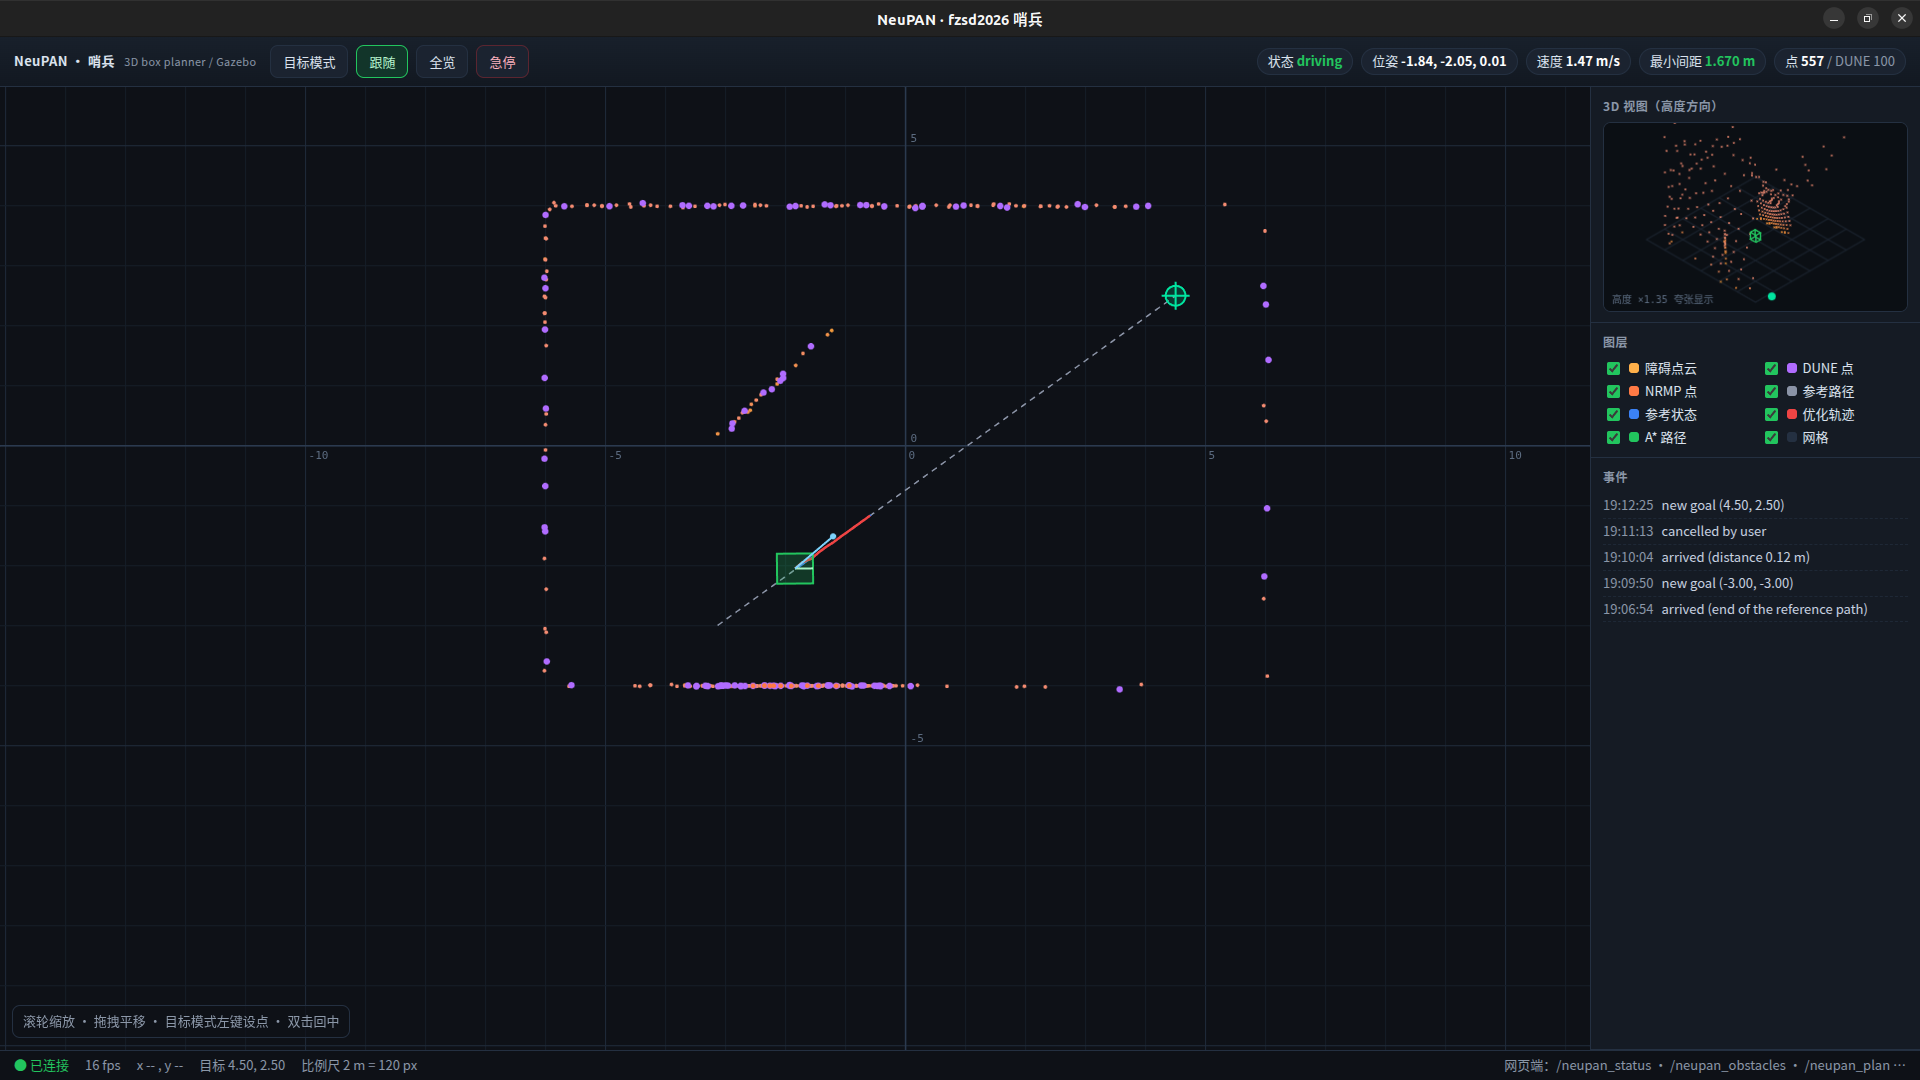
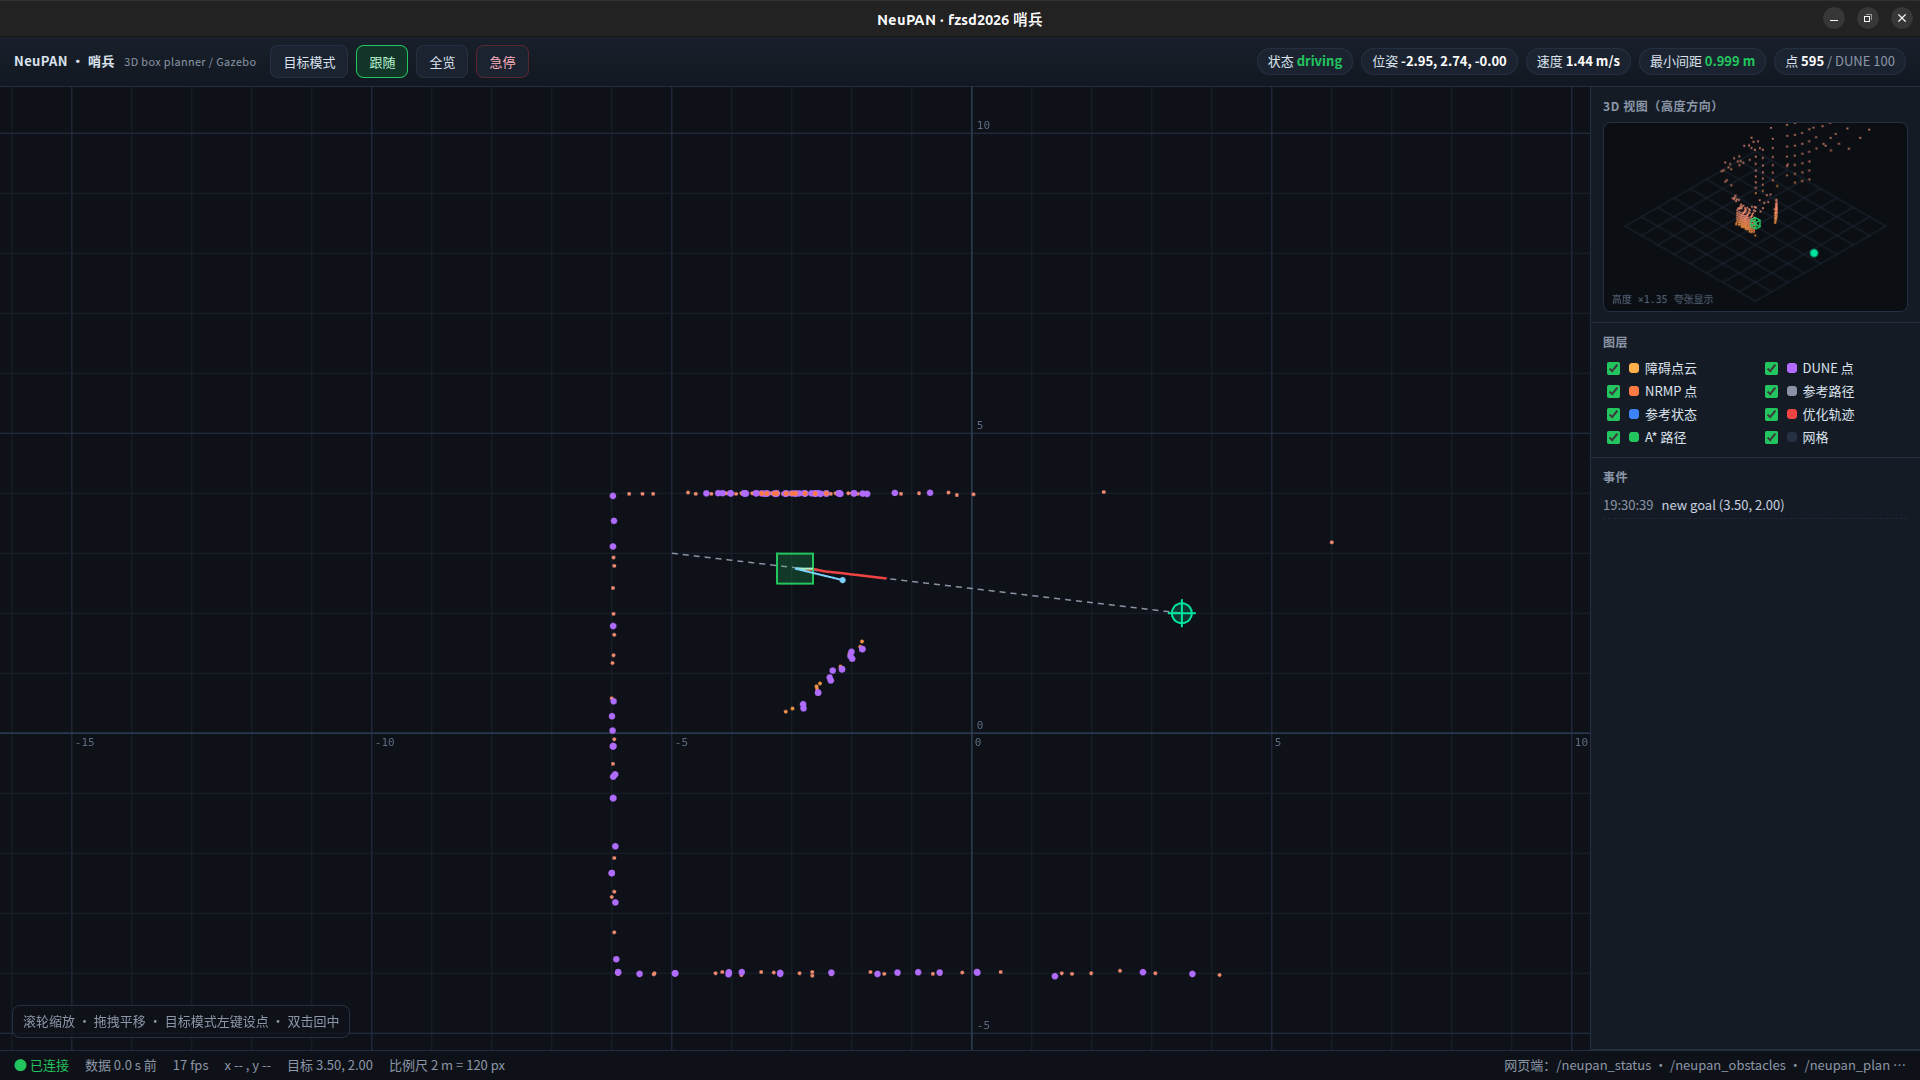
fix(fzsd2026): SSE watchdog + data-age indicator in the web UI
A long-lived EventSource can silently stop delivering (bridge/web restart, tab in the
background); the page now reconnects after 4 s without a frame and shows how old the
last frame is. Refreshed the README screenshot.

diff --git a/example/fzsd2026/web/static/index.html b/example/fzsd2026/web/static/index.html
@@ -143,6 +143,7 @@
 
 <footer>
   <span id="link" class="bad">● 未连接</span>
+  <span id="age">数据 --</span>
   <span id="fps">-- fps</span>
   <span id="cursor">x -- , y --</span>
   <span id="goal">目标 --</span>
@@ -449,12 +450,44 @@
   }
 
   // ------------------------------------------------------------------ SSE
-  const es = new EventSource('/api/stream');
-  es.onopen = () => { $('link').className = 'good'; $('link').textContent = '● 已连接'; };
-  es.onerror = () => { $('link').className = 'bad'; $('link').textContent = '● 断开，重连中'; };
-  es.onmessage = (ev) => {
-    try { applyData(JSON.parse(ev.data)); } catch (e) { /* ignore malformed frame */ }
-  };
+  // Browsers can silently drop a long-lived SSE stream (server restart, tab in the
+  // background). A watchdog reconnects when no frame arrived for a few seconds.
+  const WATCHDOG_MS = 4000;
+  let es = null;
+  let lastMsg = 0;
+  let reconnecting = false;
+
+  function connect() {
+    if (es) { try { es.close(); } catch (e) { /* ignore */ } }
+    es = new EventSource('/api/stream');
+    es.onopen = () => {
+      reconnecting = false;
+      $('link').className = 'good';
+      $('link').textContent = '● 已连接';
+    };
+    es.onerror = () => {
+      $('link').className = 'bad';
+      $('link').textContent = '● 断开，重连中';
+      if (!reconnecting) { reconnecting = true; setTimeout(connect, 1500); }
+    };
+    es.onmessage = (ev) => {
+      lastMsg = Date.now();
+      try { applyData(JSON.parse(ev.data)); } catch (e) { /* ignore malformed frame */ }
+    };
+  }
+  connect();
+  setInterval(() => {
+    if (!lastMsg) return;
+    const age = (Date.now() - lastMsg) / 1000;
+    const el = $('age');
+    if (el) el.textContent = `数据 ${age.toFixed(1)} s 前`;
+    if (age > WATCHDOG_MS / 1000) {
+      $('link').className = 'bad';
+      $('link').textContent = '● 数据超时，重连中';
+      connect();
+      lastMsg = Date.now();   // avoid a reconnect storm while it settles
+    }
+  }, 1000);
 
   let firstFrame = true;
   function applyData(d) {
